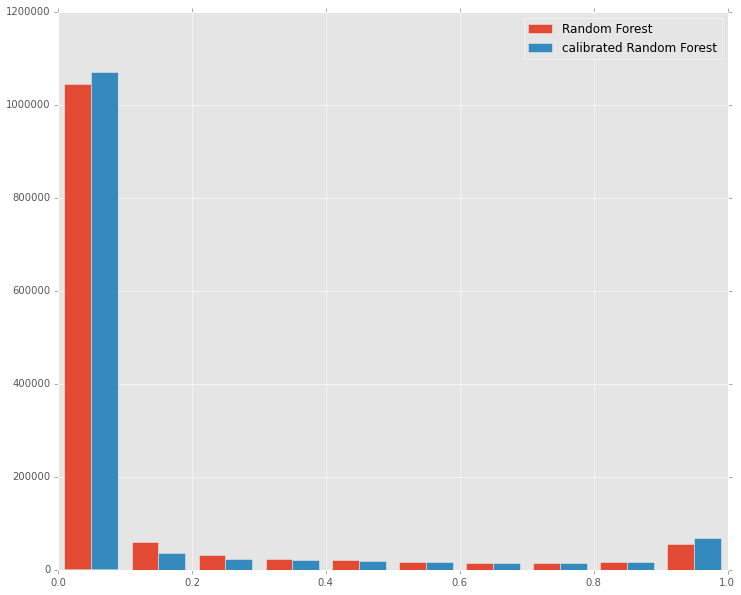
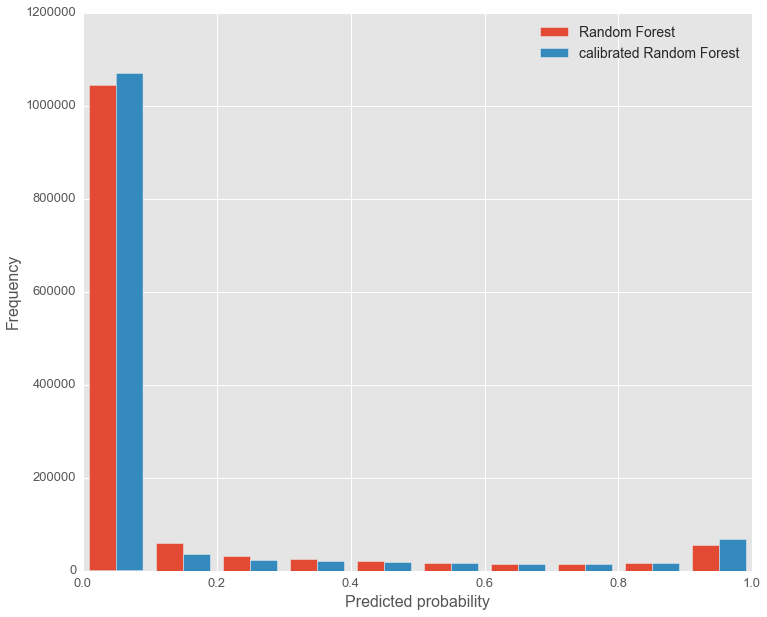
update

Changed region(s): [[0.0, 0.0, 0.9933, 0.9983], [0.6829, 0.0303, 0.9622, 0.0908]]

diff --git a/xgb_randomsearch.py b/xgb_randomsearch.py
@@ -1,0 +1,182 @@
+import pandas as pd
+import numpy as np
+from xgb_wrapper import XGBoostClassifier
+import xgboost as xgb
+from sklearn.metrics import log_loss
+from sklearn.utils import shuffle
+from sklearn.preprocessing import StandardScaler
+import random
+from sklearn.calibration import CalibratedClassifierCV
+from sklearn.ensemble import RandomForestClassifier
+from sklearn.ensemble import ExtraTreesClassifier
+from sklearn.metrics import log_loss
+from sklearn.cross_validation import train_test_split
+from sklearn import preprocessing
+
+random.seed()
+
+# Returns train_x,valid_x in 2d, train_y, valid_y in 1d  and start with '0'
+def loadData():
+    # Preprocess
+
+    features=[]
+    for i in range(1,94):
+        features.append("feat_"+str(i))
+
+    # Load data
+    train_data = pd.read_csv("train.csv")
+    le = preprocessing.LabelEncoder()
+    le.fit(train_data['target'])
+    train_data['target']=le.transform(train_data['target'])
+    
+    train, valid,train_y, valid_y = train_test_split(train_data[features], train_data['target'], test_size=0.1, random_state=42)
+
+    test = pd.read_csv("test.csv")
+    
+  
+    train_x=train[features].values
+    valid_x=valid[features].values
+    train_y=train_y.values
+    valid_y=valid_y.values
+    test_x=test[features].values
+    
+
+    train_x = train_x.astype(np.float64)
+    valid_x = valid_x.astype(np.float64)
+    train_y = train_y.astype(np.float64)
+    valid_y = valid_y.astype(np.float64)
+    test_x = test_x.astype(np.float64)
+    print('Data has been loaded!')
+    return train_x,train_y,valid_x,valid_y,test_x
+
+# Saves predictions(2-d numpy array) into './results/results.csv'
+def saveData(predictions,fpath):
+    df = pd.DataFrame(predictions) #predictions is a numpy 2d array
+    df.index+=1
+    headers = ["Class_1","Class_2","Class_3","Class_4","Class_5","Class_6","Class_7","Class_8","Class_9"]
+    df.to_csv(fpath, header=headers,index=True, index_label = 'id')
+    print('Predictions has been saved!')
+
+train_x,train_y,valid_x,valid_y,test_x=loadData()
+# normalization
+scaler = StandardScaler()
+train_x = scaler.fit_transform(train_x)
+valid_x = scaler.transform(valid_x)
+test_x = scaler.transform(test_x)
+
+def trainrf(model_id,train_x,train_y,valid_x,valid_y,test_x):
+    train_x,train_y=shuffle(train_x,train_y)
+
+
+    random_state=random.randint(0, 1000000)
+    print('random state: {state}'.format(state=random_state))
+
+    clf = RandomForestClassifier(n_estimators=random.randint(50,5000),
+                                 criterion='gini',
+                                 max_depth=random.randint(10,1000),
+                                 min_samples_split=random.randint(2,50),
+                                 min_samples_leaf=random.randint(1,10),
+                                 min_weight_fraction_leaf=random.uniform(0.0,0.5),
+                                 max_features=random.uniform(0.1,1.0),
+                                 max_leaf_nodes=random.randint(1,10),
+                                 bootstrap=False,
+                                 oob_score=False,
+                                 n_jobs=30,
+                                 random_state=random_state,
+                                 verbose=0,
+                                 warm_start=True,
+                                 class_weight=None
+                )
+
+    clf.fit(train_x, train_y)
+
+    valid_predictions1 = clf.predict_proba(valid_x)
+    test_predictions1= clf.predict_proba(test_x)
+
+    t1 = test(valid_y,valid_predictions1)
+
+    ccv = CalibratedClassifierCV(base_estimator=clf,method="sigmoid",cv='prefit')
+    ccv.fit(valid_x,valid_y)
+
+    valid_predictions2 = ccv.predict_proba(valid_x)
+    test_predictions2= ccv.predict_proba(test_x)
+
+    t2 = test(valid_y,valid_predictions2)
+
+    if t2<t1:
+        valid_predictions=valid_predictions2
+        test_predictions=test_predictions2
+        t=t2
+    else:
+        valid_predictions=valid_predictions1
+        test_predictions=test_predictions1
+        t=t1
+
+    if t < 0.450:
+        saveData(valid_predictions,"../valid_results/valid_"+str(model_id)+".csv")
+        saveData(test_predictions,"../results/results_"+str(model_id)+".csv")
+
+
+def test(valid_y,valid_predictions):
+    class2num={}
+    for label in range(9):
+        tmp=[0]*9
+        for i in range(9):
+            if i == label:
+                tmp[i]=1.0
+        class2num[label]=tmp
+
+    _valid_y=[]
+    for i in range(0,len(valid_y)):
+        _valid_y.append(class2num[valid_y[i]])
+    _valid_y=np.array(_valid_y)
+
+    print('valid loss:')
+    print(log_loss(valid_y,valid_predictions))
+
+def trainxgb(model_id,train_x,train_y,valid_x,valid_y,test_x):
+    train_x,train_y=shuffle(train_x,train_y)
+
+    random_state=random.randint(0, 1000000)
+    print('random state: {state}'.format(state=random_state))
+
+    xgboost = XGBoostClassifier(silent=0,
+                 objective='multi:softprob',
+                 eval_metric='mlogloss',
+                 num_class=9,
+                 nthread=4,
+                 seed=random_state,
+                 eta=random.uniform(0.01,0.1),
+                 max_depth=random.randint(10,20),
+                 max_delta_step=random.randint(1,10),
+                 min_child_weight=random.randint(1,10),
+                 subsample=random.uniform(0.0,1.0),
+                 gamma=random.uniform(0.01,0.1),
+                 colsample_bytree=random.uniform(0.0,1.0),
+                 early_stopping_rounds=30,
+                 num_round=1000
+                )
+      
+    xgboost.fit(train_x, train_y)
+    
+    valid_predictions = xgboost.predict_proba(valid_x)
+    score =log_loss(valid_y,valid_predictions)
+    print score
+    fName = open("report_xgb_"+str(model_id)+".txt", 'w')
+    print >> fName, "score:"
+    print >> fName, score
+    print >>fName, "model_id:"
+    print >>fName, model_id
+    print >> fName, xgboost
+    fName.close()
+    #if  score<0.450:
+    #    test_predictions= xgboost.predict_proba(test_x)
+    #    saveData(valid_predictions,"submissions/valid_"+str(model_id)+".csv")
+    #    saveData(test_predictions,"submissions/results_"+str(model_id)+str(score)+".csv")
+
+for model_id in range(46,100):
+       print('model_id: {state}'.format(state=model_id))
+       trainxgb(model_id,train_x,train_y,valid_x,valid_y,test_x)
+
+
+  

diff --git a/weights.py b/weights.py
@@ -9,7 +9,6 @@ import os
 from xgb_wrapper import XGBoostClassifier
 from sklearn import preprocessing
 
-#os.system("ls ../input")
 
 train = pd.read_csv("train.csv")
 print("Training set has {0[0]} rows and {0[1]} columns".format(train.shape))
@@ -132,7 +131,6 @@ def log_loss_func(weights):
 starting_values = [0.5]*len(predictions)
 
 #adding constraints  and a different solver as suggested by user 16universe
-#https://kaggle2.blob.core.windows.net/forum-message-attachments/75655/2393/otto%20model%20weights.pdf?sv=2012-02-12&se=2015-05-03T21%3A22%3A17Z&sr=b&sp=r&sig=rkeA7EJC%2BiQ%2FJ%2BcMpcA4lYQLFh6ubNqs2XAkGtFsAv0%3D
 cons = ({'type':'eq','fun':lambda w: 1-sum(w)})
 #our weights are bound between 0 and 1
 bounds = [(0,1)]*len(predictions)

diff --git a/data_describe.py b/data_describe.py
@@ -16,5 +16,8 @@ pred1=pred1.drop(['id'],axis=1)
 
 plt.figure(figsize=(12,10))
 plt.hist([pred.values.flatten(),pred1.values.flatten()],label=['Random Forest','calibrated Random Forest'])
-plt.legend()
-
+plt.legend(fontsize=14)
+plt.xlabel('Predicted probability',fontsize=16)
+plt.ylabel('Frequency',fontsize=16)
+plt.xticks(fontsize=13)
+plt.yticks(fontsize=13)

diff --git a/explore_data.py b/explore_data.py
@@ -104,7 +104,8 @@ for tl in ax.get_xticklabels():
     tl.set_fontsize(13)
 for tl in ax.get_yticklabels():
     tl.set_fontsize(13)
-    
+plt.ylabel('Frequency',fontsize=13)
+
 def autolabel(rects):
     # attach some text labels
     for rect in rects:
